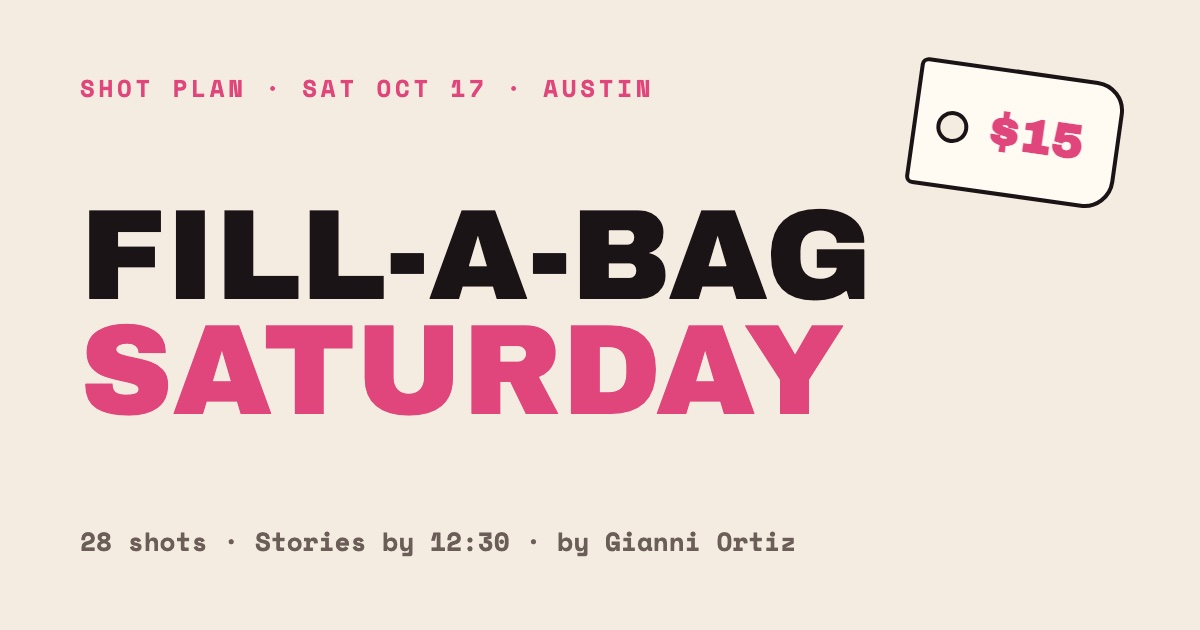
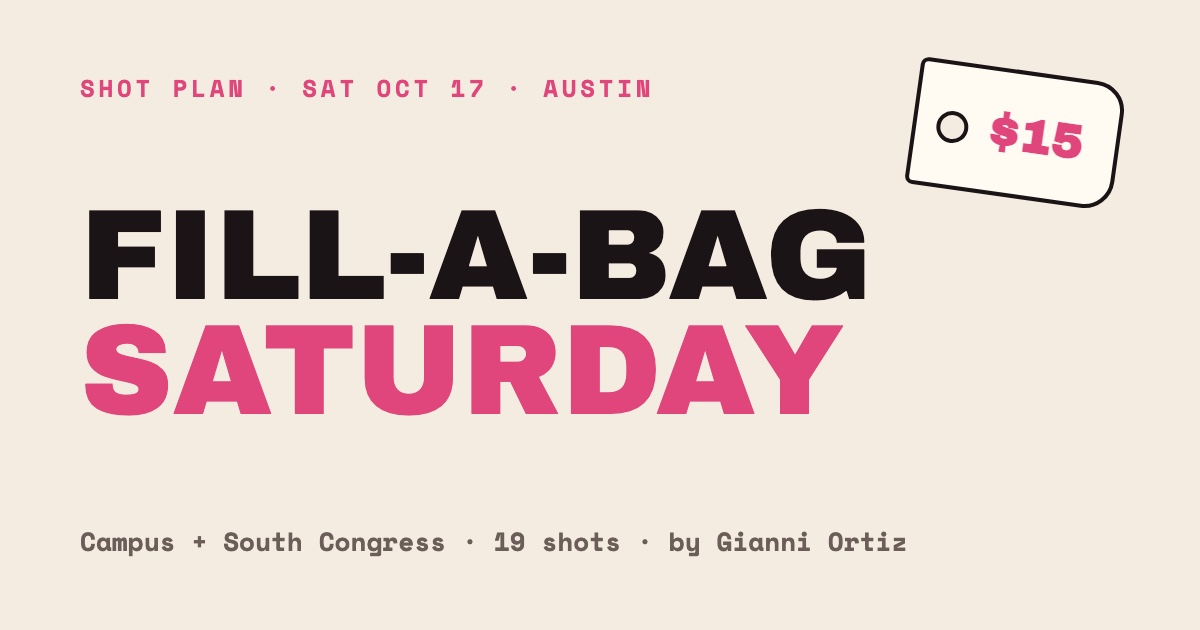
Thrift shot plan: both Austin stores, video first, built off their IG
Campus at doors then South Congress, about an hour each. 19 tags by store,
what their page already proves (walk-ins 364K, Fill-a-Bag promos 118K),
new share card.

Changed region(s): [[0.0617, 0.8444, 0.7708, 0.9048]]

diff --git a/portfolio/thrift/index.html b/portfolio/thrift/index.html
@@ -5,9 +5,9 @@
 <meta name="viewport" content="width=device-width, initial-scale=1, viewport-fit=cover">
 <title>Fill-a-Bag Saturday: shot plan</title>
 <meta name="robots" content="noindex, nofollow">
-<meta name="description" content="Shot plan for Thrift @ The Warehouse Austin, Fill-a-Bag Saturday Oct 17. By Gianni Ortiz.">
+<meta name="description" content="Shot plan for Thrift @ The Warehouse Austin, Fill-a-Bag Saturday Oct 17, both stores. By Gianni Ortiz.">
 <meta property="og:title" content="Fill-a-Bag Saturday: the shot plan">
-<meta property="og:description" content="One morning, three kinds of content. For Thrift @ The Warehouse Austin, Sat Oct 17. By Gianni Ortiz.">
+<meta property="og:description" content="Both Austin stores, one morning, mostly video. For Thrift @ The Warehouse, Sat Oct 17. By Gianni Ortiz.">
 <meta property="og:image" content="https://0fftheprint.com/portfolio/thrift/preview.jpg">
 <meta property="og:url" content="https://0fftheprint.com/portfolio/thrift/">
 <meta property="og:type" content="website">
@@ -18,8 +18,8 @@
 <link rel="preconnect" href="https://fonts.gstatic.com" crossorigin>
 <link rel="stylesheet" href="https://fonts.googleapis.com/css2?family=Archivo+Black&family=Inter:wght@400;500;600;700&family=Space+Mono:wght@400;700&display=swap">
 <style>
-/* Layout: a hang-tag shot plan. Phone first, one column: the short version, the morning as a
-   timeline, then each shot as a numbered tag grouped by part of the store, then deliverables,
+/* Layout: a hang-tag shot plan. Phone first, one column: the short version, what their page already
+   proves, the morning as a timeline, then each shot as a numbered tag grouped by store, then deliverables,
    specs, people, and the questions for the client. Wider screens put the tags two across. */
 :root{
   --paper:#f4ece0; --tag:#fffaf2; --ink:#1b1417; --muted:#6b5d58; --line:#e2d5c3;
@@ -45,6 +45,10 @@ h1 span{color:var(--pink)}
 .three small{display:block;color:var(--muted);font-size:14px;margin-top:4px}
 h2{font:400 26px/1 var(--f-display);text-transform:uppercase;margin:0 0 14px;display:flex;align-items:baseline;gap:10px;flex-wrap:wrap}
 h2 em{font:400 13px var(--f-mono);font-style:normal;color:var(--muted);letter-spacing:0;text-transform:none}
+.proof{display:grid;gap:10px}
+.proof div{display:grid;grid-template-columns:96px 1fr;gap:12px;align-items:baseline;border-top:1.5px solid var(--ink);padding-top:10px}
+.proof b{font:400 24px/1 var(--f-display);color:var(--pink)}
+.proof small{display:block;color:var(--muted);font-size:14px}
 .tl{list-style:none;margin:0;padding:0;border-left:3px solid var(--pink)}
 .tl li{display:grid;grid-template-columns:96px 1fr;gap:12px;padding:10px 0 10px 14px;position:relative}
 .tl li::before{content:"";position:absolute;left:-8px;top:16px;width:13px;height:13px;border-radius:50%;background:var(--paper);border:3px solid var(--pink)}
@@ -53,11 +57,15 @@ h2 em{font:400 13px var(--f-mono);font-style:normal;color:var(--muted);letter-sp
 .tl small{color:var(--muted);font-size:14px}
 .group{display:grid;gap:12px}
 .group h3{font:700 13px/1 var(--f-mono);letter-spacing:.14em;text-transform:uppercase;color:var(--denim);margin:12px 0 0}
+.store{margin:18px 0 0;padding-top:12px;border-top:3px solid var(--ink);display:flex;flex-wrap:wrap;gap:4px 12px;align-items:baseline}
+.store b{font:400 22px/1 var(--f-display);text-transform:uppercase}
+.store span{font:500 13px var(--f-mono);color:var(--muted)}
 .tags{display:grid;gap:10px}
 @media(min-width:640px){.tags{grid-template-columns:1fr 1fr}}
 .tagc{position:relative;background:var(--tag);border:1.5px solid var(--ink);border-radius:4px 14px 14px 4px;padding:12px 14px 12px 40px;min-width:0}
 .tagc::before{content:"";position:absolute;left:12px;top:15px;width:12px;height:12px;border-radius:50%;border:1.5px solid var(--ink);background:var(--paper)}
 .tagc .n{font:700 12px var(--f-mono);color:var(--pink);letter-spacing:.06em}
+.tagc .n i{font-style:normal;color:var(--ink);margin-left:6px}
 .tagc b{display:block;font-weight:700;line-height:1.3;margin-top:2px}
 .tagc small{display:block;color:var(--muted);font-size:14px;margin-top:3px}
 .tagc .gear{display:inline-block;margin-top:6px;font:400 11px var(--f-mono);letter-spacing:.04em;text-transform:uppercase;color:var(--denim);border:1px solid var(--line);padding:1px 6px}
@@ -73,114 +81,122 @@ ul.plain{margin:0;padding-left:20px;display:grid;gap:6px}
 .close{font-size:18px;margin:0;max-width:34em}
 .sig{display:flex;flex-wrap:wrap;gap:6px 18px;align-items:baseline;border-top:1.5px solid var(--ink);padding-top:14px;font:500 14px var(--f-mono)}
 .sig b{font:400 20px var(--f-display);text-transform:uppercase}
-@media(max-width:380px){.tl li{grid-template-columns:80px 1fr}.del div{grid-template-columns:1fr}}
+@media(max-width:380px){.tl li{grid-template-columns:80px 1fr}.del div{grid-template-columns:1fr}.proof div{grid-template-columns:80px 1fr}}
 </style>
 </head>
 <body>
 <main class="wrap">
 
   <header>
-    <p class="kick">Shot plan · Sat Oct 17 · Austin</p>
+    <p class="kick">Shot plan · Sat Oct 17 · Austin · both stores</p>
     <h1>Fill-a-Bag <span>Saturday</span></h1>
     <p class="by">For Thrift @ The Warehouse Austin · by Gianni Ortiz</p>
   </header>
 
   <section>
-    <p class="short">Short version is one morning, three kinds of content. Stories while the sale is still on, so whoever's scrolling at noon still has till 4 to come in. A recap reel of the rush. And a library of every rack, by style, that your team can cut from for the next month.</p>
+    <p class="short">Both stores, about an hour each, mostly video. Campus for the doors at 10, then South Congress. Every shot is built off what already works on your page, so Saturday's footage pulls double duty: Story clips while the sale's still on, and the promo for the next Fill-a-Bag.</p>
     <div class="three">
-      <div><b>Stories</b><small>Same day, by 12:30. Posted while the sale's still going.</small></div>
-      <div><b>Recap reel</b><small>The rush, the piles, the hauls. 20 to 30 seconds.</small></div>
-      <div><b>Rack library</b><small>Every section filmed and named, ready for "new in" posts.</small></div>
+      <div><b>Stories</b><small>Sent from each store as they're shot. Posted while the sale runs till 4.</small></div>
+      <div><b>Next promo</b><small>The piles, the dig, the bags. Your Fill-a-Bag reels go big the week before a sale.</small></div>
+      <div><b>Walk-ins</b><small>One per store. Your biggest reel format, front door to the back racks.</small></div>
     </div>
   </section>
 
   <section>
-    <h2>The morning <em>10 to 12, the rush is the story</em></h2>
+    <h2>What your page already proves <em>@thriftatthewarehouseatx, Jul 26 to Oct 14</em></h2>
+    <div class="proof">
+      <div><b>364K</b><span>The walk-in reels win<small>"Your new go-to thrift store" (Campus) and the South Congress opening (283K). Front of the store, racks by style, address and hours.</small></span></div>
+      <div><b>118K</b><span>Fill-a-Bag promos are next<small>Sept (118K and 56K) and Aug (66K), all posted the week before the sale. So Saturday gets shot like next month's ad.</small></span></div>
+      <div><b>15s</b><span>Short and vertical<small>Most of your reels run 7 to 22 seconds. Every shot here is built to cut that short.</small></span></div>
+    </div>
+    <p class="note">Plus your weekly series: what we bought in today, staff picks, 200 new items a day, play dress up, Halloween finds.</p>
+  </section>
+
+  <section>
+    <h2>The morning <em>Campus at doors, South Congress by 11:20</em></h2>
     <ol class="tl">
-      <li><time>9:40</time><div><b>Outside</b><small>The line, the storefront, people holding empty bags.</small></div></li>
-      <li><time>10:00</time><div><b>Doors</b><small>First wave in, shot from inside facing the door.</small></div></li>
-      <li><time>10:00</time><div><b>The piles</b><small>Hands in, people digging, bags filling. Till about 10:45.</small></div></li>
-      <li><time>10:45</time><div><b>Hauls</b><small>"What'd you get for $15" with whoever's down. Bag dumps, try-ons.</small></div></li>
-      <li><time>11:30</time><div><b>The store</b><small>Racks by style, the $5 section, dressing rooms, the buy counter, staff picks.</small></div></li>
-      <li><time>12:30</time><div><b>Stories delivered</b><small>First clips in your hands with three and a half hours of sale left.</small></div></li>
+      <li><time>9:40</time><div><b>Campus, outside</b><small>The line, the storefront, the piles waiting out front.</small></div></li>
+      <li><time>10:00</time><div><b>The dig</b><small>Doors, overheads into the piles, found-it moments, bags and the tie.</small></div></li>
+      <li><time>10:45</time><div><b>Campus, inside</b><small>The walk-in, staff picks, the Night Market spot. First Story clips go out.</small></div></li>
+      <li><time>11:00</time><div><b>Drive to South Congress</b><small>About 20 minutes.</small></div></li>
+      <li><time>11:20</time><div><b>South Congress</b><small>The dig round two, a bag dump, the walk-in, the buy counter.</small></div></li>
+      <li><time>12:30</time><div><b>Wrap</b><small>The rest of the Story clips go out, with three and a half hours of sale left.</small></div></li>
     </ol>
   </section>
 
   <section class="group">
-    <h2>The shots <em>28 tags, cross off anything you don't need</em></h2>
+    <h2>The shots <em>19 tags, ★ = must-get, cross off anything you don't need</em></h2>
 
-    <h3>The line + doors</h3>
+    <div class="store"><b>Campus</b><span>1104 W 34th St · 9:40 to 11:00</span></div>
+
+    <h3>Before the doors</h3>
     <div class="tags">
-      <div class="tagc"><span class="n">01</span><b>Storefront wide with the sign</b><small>Establishing shot. Works as the reel's first frame.</small><span class="gear">gimbal</span></div>
-      <div class="tagc"><span class="n">02</span><b>Slow push down the line</b><small>Faces, fits, empty bags in hand.</small><span class="gear">gimbal</span></div>
-      <div class="tagc"><span class="n">03</span><b>Doors open, from inside</b><small>The first wave walking in at you. The hook of the recap.</small><span class="gear">360 cam</span></div>
-      <div class="tagc"><span class="n">04</span><b>First person to the pile</b><small>Follow one shopper from the door to the first find.</small><span class="gear">gimbal</span></div>
+      <div class="tagc"><span class="n">01<i>★</i></span><b>Storefront wide, the sign and the piles waiting</b><small>Held for five seconds. The first frame of the next promo.</small><span class="gear">gimbal</span></div>
+      <div class="tagc"><span class="n">02</span><b>Slow push down the line</b><small>Fits, faces, bags in hand.</small><span class="gear">gimbal</span></div>
     </div>
 
-    <h3>The piles</h3>
+    <h3>The dig</h3>
     <div class="tags">
-      <div class="tagc"><span class="n">05</span><b>Overhead, looking down into the pile</b><small>Hands digging from above. Nobody can stand where this camera is.</small><span class="gear">360 cam on a pole</span></div>
-      <div class="tagc"><span class="n">06</span><b>Close-ups surfacing</b><small>A band tee graphic, a denim tag, a vintage label coming out of the pile.</small><span class="gear">gimbal, tele</span></div>
-      <div class="tagc"><span class="n">07</span><b>The "found it" moment</b><small>Somebody holding a piece up. Three of these, different people.</small><span class="gear">gimbal</span></div>
-      <div class="tagc"><span class="n">08</span><b>POV dive into the pile</b><small>Camera down in the pile, digging like a shopper would.</small><span class="gear">360 cam</span></div>
-      <div class="tagc"><span class="n">09</span><b>The whole room, time-lapse</b><small>Second camera locked off in a corner while the rush happens.</small><span class="gear">locked off</span></div>
+      <div class="tagc"><span class="n">03<i>★</i></span><b>The first wave hits the piles</b><small>High and wide, so you see the whole rush.</small><span class="gear">360 cam, high</span></div>
+      <div class="tagc"><span class="n">04<i>★</i></span><b>Straight down into the pile</b><small>Hands digging from above. Nobody can stand where this camera is.</small><span class="gear">360 cam on a pole</span></div>
+      <div class="tagc"><span class="n">05<i>★</i></span><b>"Found it"</b><small>Three different people pulling a piece up and holding it out.</small><span class="gear">gimbal, close</span></div>
+      <div class="tagc"><span class="n">06</span><b>The whole dig, time-lapse</b><small>Second camera locked off on the piles for half an hour.</small><span class="gear">locked off</span></div>
     </div>
 
     <h3>The bag</h3>
     <div class="tags">
-      <div class="tagc"><span class="n">10</span><b>Stuffing the bag</b><small>Push in on the seams stretching.</small><span class="gear">gimbal</span></div>
-      <div class="tagc"><span class="n">11</span><b>The tie</b><small>Bags must tie. The struggle to close one is the funniest shot of the day.</small><span class="gear">gimbal</span></div>
-      <div class="tagc"><span class="n">12</span><b>The count</b><small>"How many pieces fit?" Somebody counts their bag out.</small><span class="gear">gimbal</span></div>
+      <div class="tagc"><span class="n">07<i>★</i></span><b>Stuffing the bag, then the tie</b><small>Bags must tie. The struggle to close one is the funniest shot of the day.</small><span class="gear">gimbal</span></div>
+      <div class="tagc"><span class="n">08</span><b>"What'd you get for $15?"</b><small>Three quick vox pops, 10 seconds each, mic'd.</small><span class="gear">gimbal + lav</span></div>
     </div>
 
-    <h3>Hauls</h3>
+    <h3>Inside</h3>
     <div class="tags">
-      <div class="tagc"><span class="n">13</span><b>"What'd you get for $15?"</b><small>Quick vox pops, five people, 10 seconds each. Mic'd.</small><span class="gear">gimbal + lav</span></div>
-      <div class="tagc"><span class="n">14</span><b>Bag dump, top-down</b><small>Everything out on a table, spread flat.</small><span class="gear">overhead</span></div>
-      <div class="tagc"><span class="n">15</span><b>One fit out of one bag</b><small>Dressing room before and after.</small><span class="gear">gimbal</span></div>
-      <div class="tagc"><span class="n">16</span><b>Friend-group reaction</b><small>Showing each other their finds.</small><span class="gear">gimbal</span></div>
+      <div class="tagc"><span class="n">09<i>★</i></span><b>The walk-in</b><small>Front door, racks by style (Y2K, western, alternative, band tees), dressing rooms, in one smooth take. Then four close details.</small><span class="gear">gimbal</span></div>
+      <div class="tagc"><span class="n">10</span><b>Staff picks + new pieces going out</b><small>For "200 new items a day."</small><span class="gear">gimbal</span></div>
+      <div class="tagc"><span class="n">11</span><b>The Night Market spot</b><small>A few seconds for the Fri 10/23 Halloween Vintage Night Market post.</small><span class="gear">gimbal</span></div>
     </div>
 
-    <h3>The store</h3>
+    <div class="store"><b>South Congress</b><span>3820 S Congress Ave · 11:20 to 12:30</span></div>
+
+    <h3>The dig, round two</h3>
     <div class="tags">
-      <div class="tagc"><span class="n">17</span><b>Every section, by style</b><small>Y2K, Western, 90s, band tees, goth, boho. One slow pass and three detail shots each, named by section.</small><span class="gear">gimbal</span></div>
-      <div class="tagc"><span class="n">18</span><b>The $5 section</b><small>The price is the caption.</small><span class="gear">gimbal</span></div>
-      <div class="tagc"><span class="n">19</span><b>The dressing rooms</b><small>Mirror shots, curtain pull.</small><span class="gear">gimbal</span></div>
-      <div class="tagc"><span class="n">20</span><b>Staff picks rack</b><small>Hero pieces, one by one.</small><span class="gear">gimbal, tele</span></div>
-      <div class="tagc"><span class="n">21</span><b>Buy, sell, trade counter</b><small>Clothes come in, cash or credit goes out. Sells the program without a word.</small><span class="gear">gimbal</span></div>
-      <div class="tagc"><span class="n">22</span><b>Restock going out</b><small>New pieces hitting the racks.</small><span class="gear">gimbal</span></div>
+      <div class="tagc"><span class="n">12<i>★</i></span><b>Storefront wide, the sign and the piles</b><small>Midday crowd, full sun.</small><span class="gear">gimbal</span></div>
+      <div class="tagc"><span class="n">13<i>★</i></span><b>Overheads + found-it moments</b><small>Same as 04 and 05, new crowd.</small><span class="gear">360 cam + gimbal</span></div>
+      <div class="tagc"><span class="n">14<i>★</i></span><b>The bag dump</b><small>Somebody empties a full bag on a table, shot top-down, spread flat.</small><span class="gear">overhead</span></div>
+      <div class="tagc"><span class="n">15</span><b>One fit out of one bag</b><small>Dressing room, before and after.</small><span class="gear">gimbal</span></div>
     </div>
 
-    <h3>October</h3>
+    <h3>Inside</h3>
     <div class="tags">
-      <div class="tagc"><span class="n">23</span><b>Costume finds</b><small>Pieces that read as a Halloween costume, styled on the rack.</small><span class="gear">gimbal</span></div>
-      <div class="tagc"><span class="n">24</span><b>Night Market teaser</b><small>A few seconds built for the Fri 10/23 Halloween Vintage Night Market post.</small><span class="gear">gimbal</span></div>
+      <div class="tagc"><span class="n">16<i>★</i></span><b>The South Congress walk-in</b><small>Same format as 09, this store's racks. Lean on the western section.</small><span class="gear">gimbal</span></div>
+      <div class="tagc"><span class="n">17</span><b>The buy, sell, trade counter</b><small>"What we bought in today." Clothes come in, cash or credit goes out.</small><span class="gear">gimbal</span></div>
+      <div class="tagc"><span class="n">18</span><b>Staff playing dress up</b><small>Your "come play dress up with us" series, if the team's down.</small><span class="gear">gimbal</span></div>
+      <div class="tagc"><span class="n">19</span><b>Halloween costume finds</b><small>Pieces that read as a costume, styled on the rack.</small><span class="gear">gimbal</span></div>
     </div>
 
-    <h3>Photos</h3>
-    <div class="tags">
-      <div class="tagc"><span class="n">25</span><b>Storefront + the line</b><small>For the "today" post.</small><span class="gear">stills</span></div>
-      <div class="tagc"><span class="n">26</span><b>Three hauls, posed with their bags</b><small>Carousel material.</small><span class="gear">stills</span></div>
-      <div class="tagc"><span class="n">27</span><b>Rack details</b><small>Textures, tags, labels. Feed fillers for weeks.</small><span class="gear">stills</span></div>
-      <div class="tagc"><span class="n">28</span><b>The team</b><small>One group shot, plus whoever wants a portrait.</small><span class="gear">stills</span></div>
-    </div>
+    <h3>Photos, if there's time</h3>
+    <ul class="plain">
+      <li>Each storefront with the piles, for the "today" post.</li>
+      <li>Two or three hauls, posed with their bags.</li>
+    </ul>
   </section>
 
   <section>
     <h2>What you get <em>proposed, tell me what works</em></h2>
     <div class="del">
-      <div><span class="when">Sat by 12:30</span><span>8 to 10 vertical Story clips<small>Color done, no text, ready to post while the sale's still on.</small></span></div>
-      <div><span class="when">Wed 10/21</span><span>Recap reel + 15 to 20 photos<small>Reel 20 to 30 seconds, one captioned version and one clean so you can add your own.</small></span></div>
-      <div><span class="when">Fri 10/23</span><span>The rack library<small>Every section, named by style, in one folder. Lands before the Night Market.</small></span></div>
+      <div><span class="when">Sat, live</span><span>6 to 8 vertical Story clips<small>Three or four from each store, sent as they're shot. Color done, no text.</small></span></div>
+      <div><span class="when">Wed 10/21</span><span>Every clip in one folder<small>Sorted by store and shot number, plus the two walk-ins cut to 15 to 20 seconds if you want them edited.</small></span></div>
+      <div><span class="when">Before Nov's sale</span><span>The Fill-a-Bag promo<small>Cut from Saturday's dig, ready for the week before the next one.</small></span></div>
     </div>
-    <p class="note">One Google Drive folder, sorted by section.</p>
+    <p class="note">One Google Drive folder, sorted by store.</p>
   </section>
 
   <section>
     <h2>How it's shot</h2>
     <ul class="plain">
       <li>Vertical 9:16 in 4K, 30 frames a second. Horizontal only where you ask for it.</li>
-      <li>Shutter matched to the store lights so nothing flickers on a phone screen.</li>
+      <li>Story clips in normal color so they post straight off the phone. Everything else gets graded.</li>
+      <li>Inside, the shutter is matched to the store lights so nothing flickers on a phone screen.</li>
       <li>Nothing burned in, no music on the files. Your team picks the sound.</li>
       <li>Faces and product stay out of the top and bottom of the frame, where Instagram puts its buttons.</li>
     </ul>
@@ -198,12 +214,12 @@ ul.plain{margin:0;padding-left:20px;display:grid;gap:6px}
   <section class="ask">
     <h2>What I need from you</h2>
     <ol>
-      <li>Which store, and who's my contact there that morning.</li>
-      <li>Your must-have shots, if there's anything missing here.</li>
-      <li>Logo and brand colors, if you want them on the reel.</li>
-      <li>Which account it's for: the Austin page, the main page, or both.</li>
-      <li>Whether any of it runs as a paid ad.</li>
-      <li>Where you want the files, and who signs off on them.</li>
+      <li>What time you want me there, and if Campus first works.</li>
+      <li>Who I check in with at each store.</li>
+      <li>Who gets the Story clips during the sale.</li>
+      <li>Raw clips or edited reels, and where the files go.</li>
+      <li>Which account each one's for: Campus, South Congress, or both.</li>
+      <li>Your must-have shots, and whether any of it runs as a paid ad.</li>
     </ol>
   </section>
 

diff --git a/portfolio/thrift/_src/preview.html b/portfolio/thrift/_src/preview.html
@@ -13,5 +13,5 @@ h1 span{color:#e0457b}
 </style></head><body><div class="c">
 <div class="k">Shot plan · Sat Oct 17 · Austin</div>
 <h1>Fill-a-Bag<br><span>Saturday</span></h1>
-<div class="b">28 shots · Stories by 12:30 · by Gianni Ortiz</div>
+<div class="b">Campus + South Congress · 19 shots · by Gianni Ortiz</div>
 </div><div class="tag"><b>$15</b></div></body></html>
